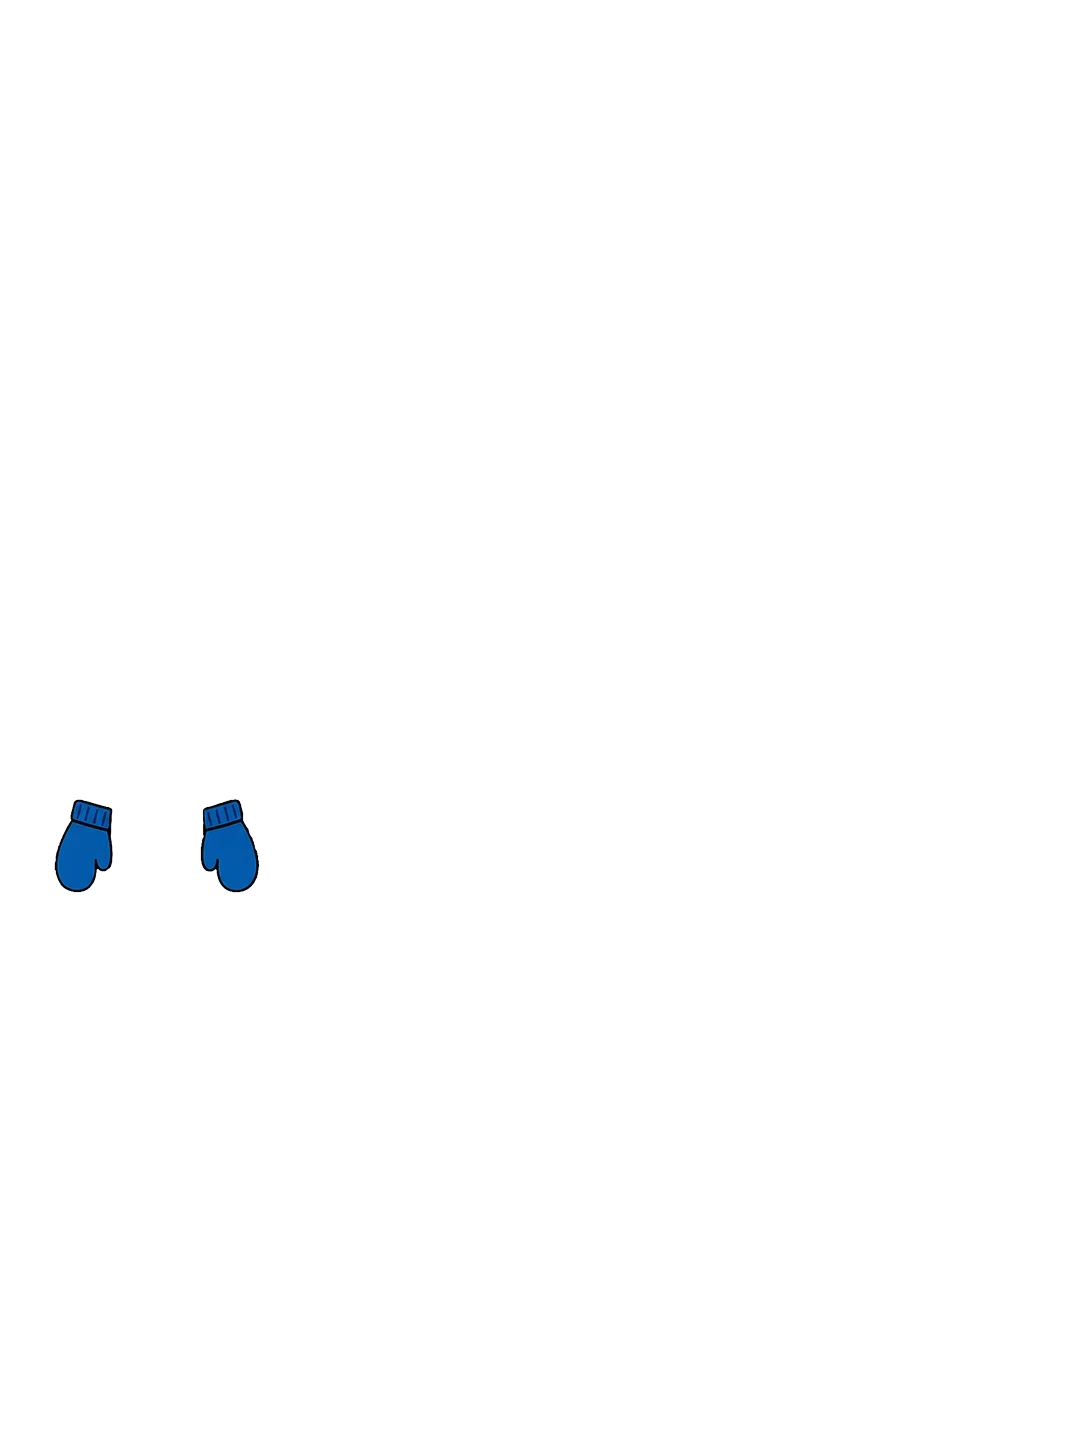
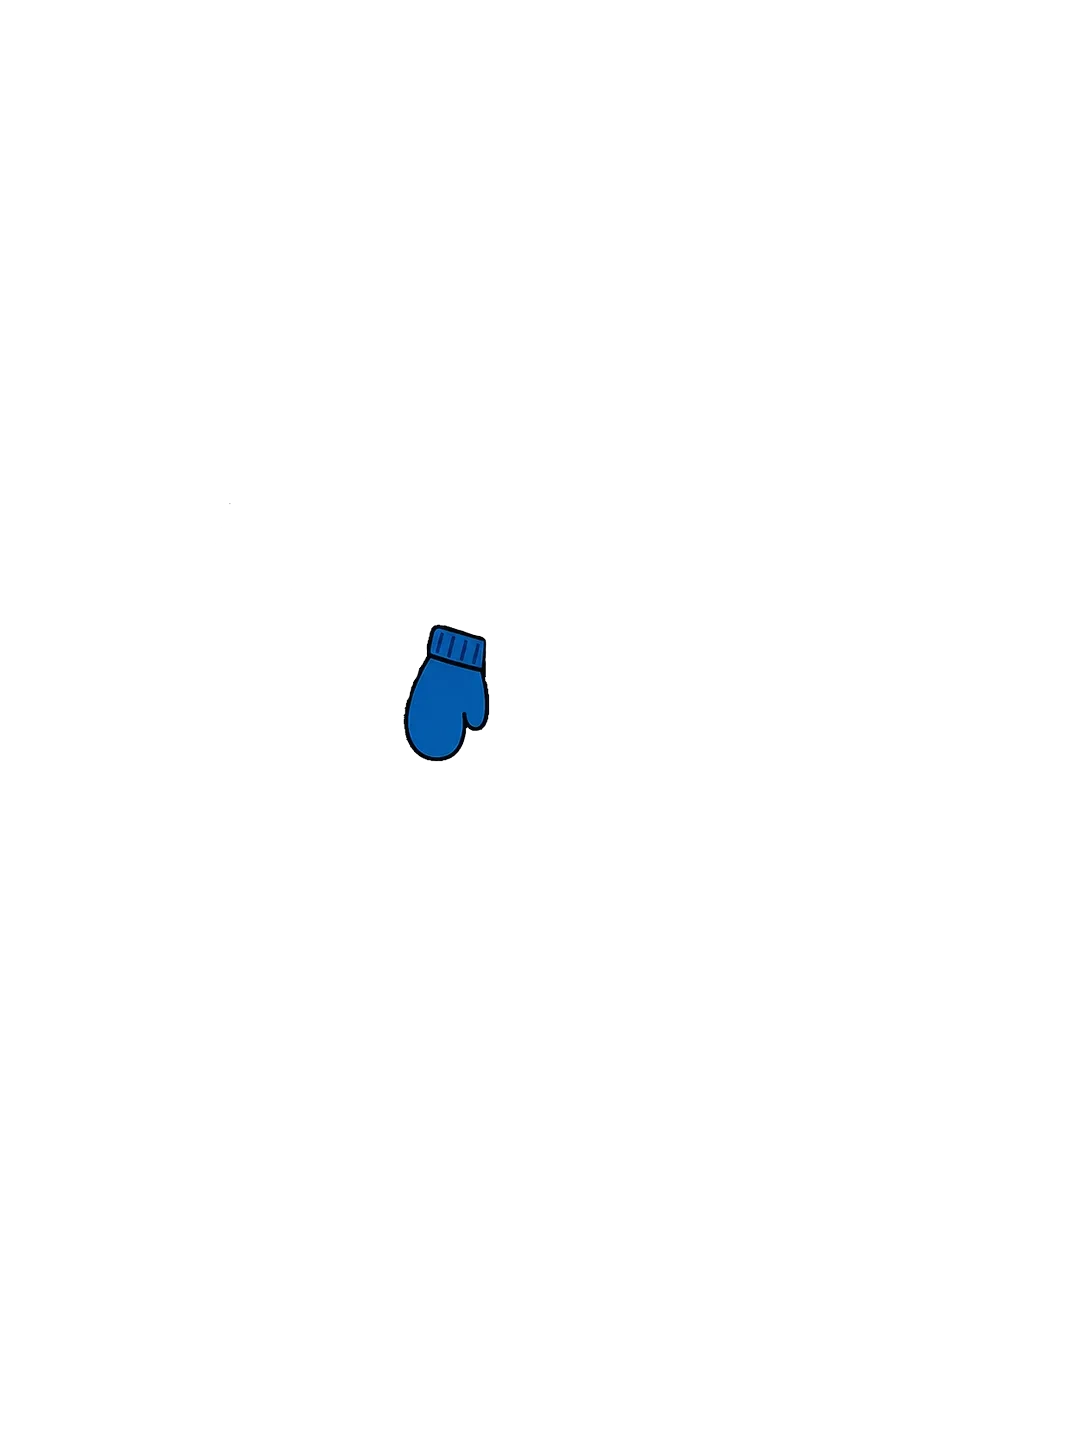
fix: gloves split at natural canvas pos, hideFeet+socks, hide socks under boots

Changed region(s): [[0.3646, 0.4351, 0.4558, 0.5283], [0.0304, 0.5283, 0.1215, 0.6215], [0.1823, 0.5283, 0.2431, 0.6215]]

diff --git a/src/App.tsx b/src/App.tsx
@@ -388,8 +388,8 @@ const DEFAULT_ADJUSTMENTS: Record<AdjustmentKey, LayerAdjustment> = {
   head:          { x: 19, y: -59, scale: 1.00, rotate: 0 },
   underbody:     { x: 9, y: 19, scale: 1.05, rotate: 0 },
   hands:         { x: 0, y: 180, scale: 1.0, rotate: 0 },
-  'hands-left':  { x: -80, y: 180, scale: 1.0, rotate: 0 },
-  'hands-right': { x: 80, y: 180, scale: 1.0, rotate: 0 },
+  'hands-left':  { x: 0, y: 0, scale: 1.5, rotate: 0 },
+  'hands-right': { x: 0, y: 0, scale: 1.5, rotate: 0 },
   umbrella:      { x: 46, y: 230, scale: 0.70, rotate: -11 },
   'wool-hat':    { x: 16, y: -64, scale: 0.95, rotate: 0 },
   'helmet':      { x: 16, y: -52, scale: 1.00, rotate: 0 },
@@ -727,7 +727,7 @@ function Pete({
   const equippedHead  = equipped.head  ? ITEMS.find(i => i.id === equipped.head)  : null
 
   const hideArms = !!(equippedTorso || equippedBody)
-  const hideFeet = !!equippedFeet
+  const hideFeet = !!(equippedFeet || equippedUnderlayers.includes('socks'))
 
   const peteImg = hideArms && hideFeet
     ? peteNoArmsNoFeet
@@ -837,6 +837,8 @@ function Pete({
         {/* Underlayer items — render at low z-index, always below outer clothing */}
         {ITEMS.filter(i => i.isUnderlayer && equippedUnderlayers.includes(i.id)).map(item => {
           const zIdx = item.layerZIndex ?? 1
+          // Bug 3: skip socks when feet are already equipped (boots/trainers cover them)
+          if (item.id === 'socks' && equippedFeet) return null
           if (item.isSplit && item.id === 'socks') {
             // Socks split rendering (left/right)
             return (
@@ -1916,7 +1918,7 @@ export default function App() {
 
           if (onPete && !current.wasEquipped) {
             if (current.item.isUnderlayer) {
-              // Underlayer item dropped onto Pete → toggle underlayer
+              // Underlayer item dropped onto Pete → toggle underlayer (deduplicated)
               setEquippedUnderlayers(prev =>
                 prev.includes(current.item.id)
                   ? prev.filter(id => id !== current.item.id)
